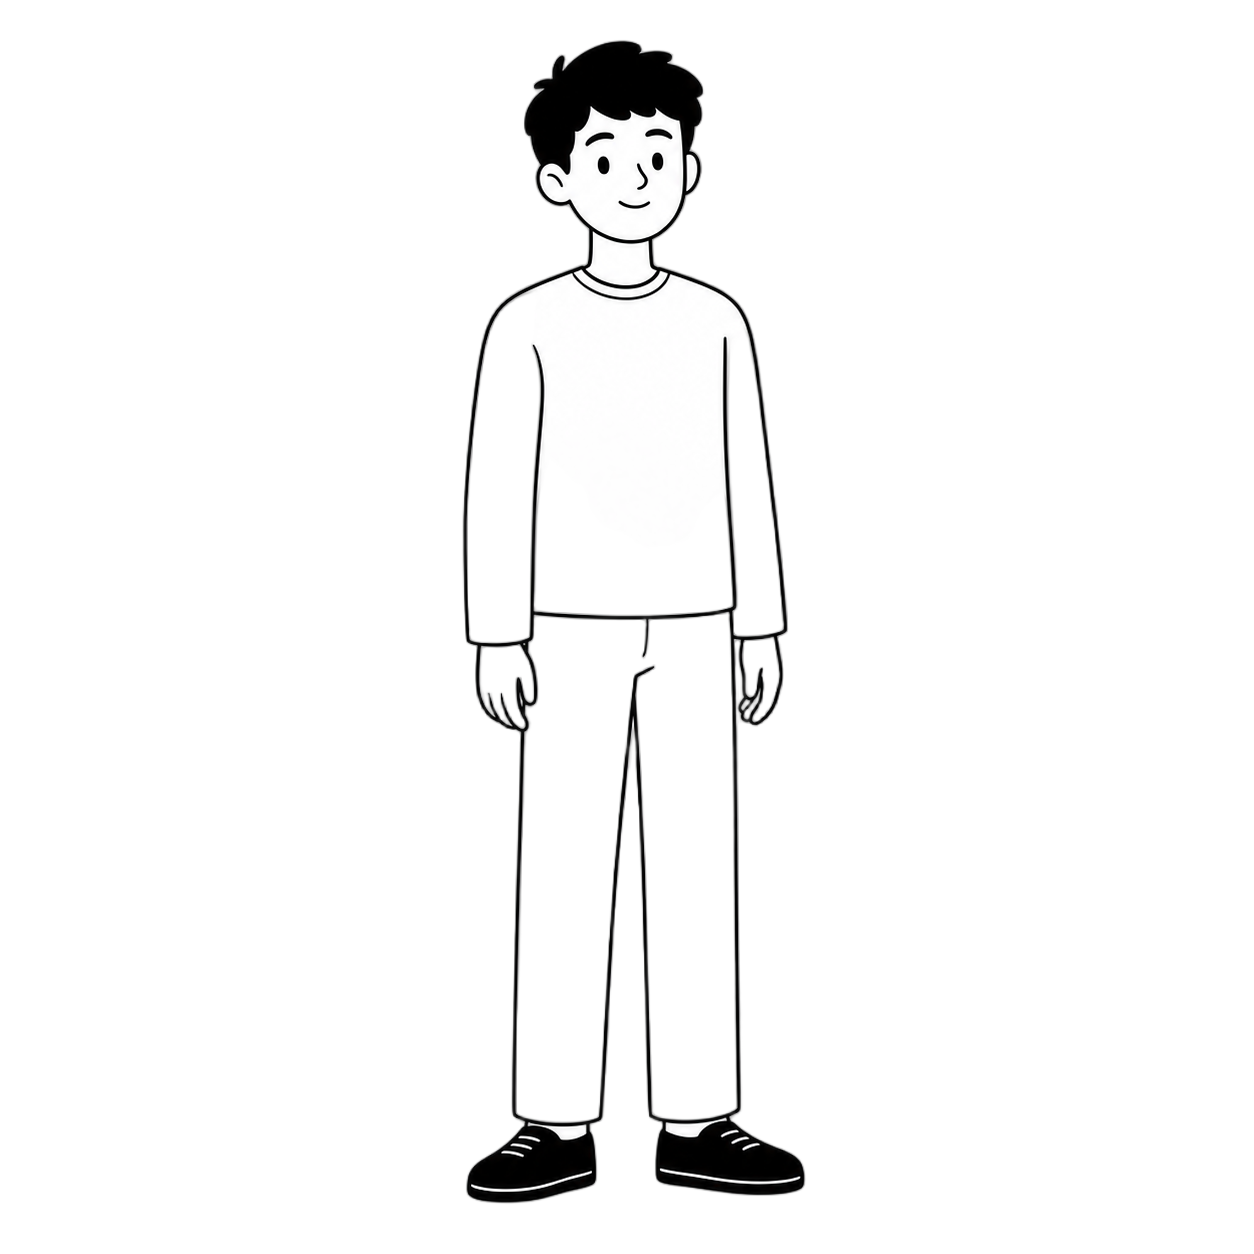
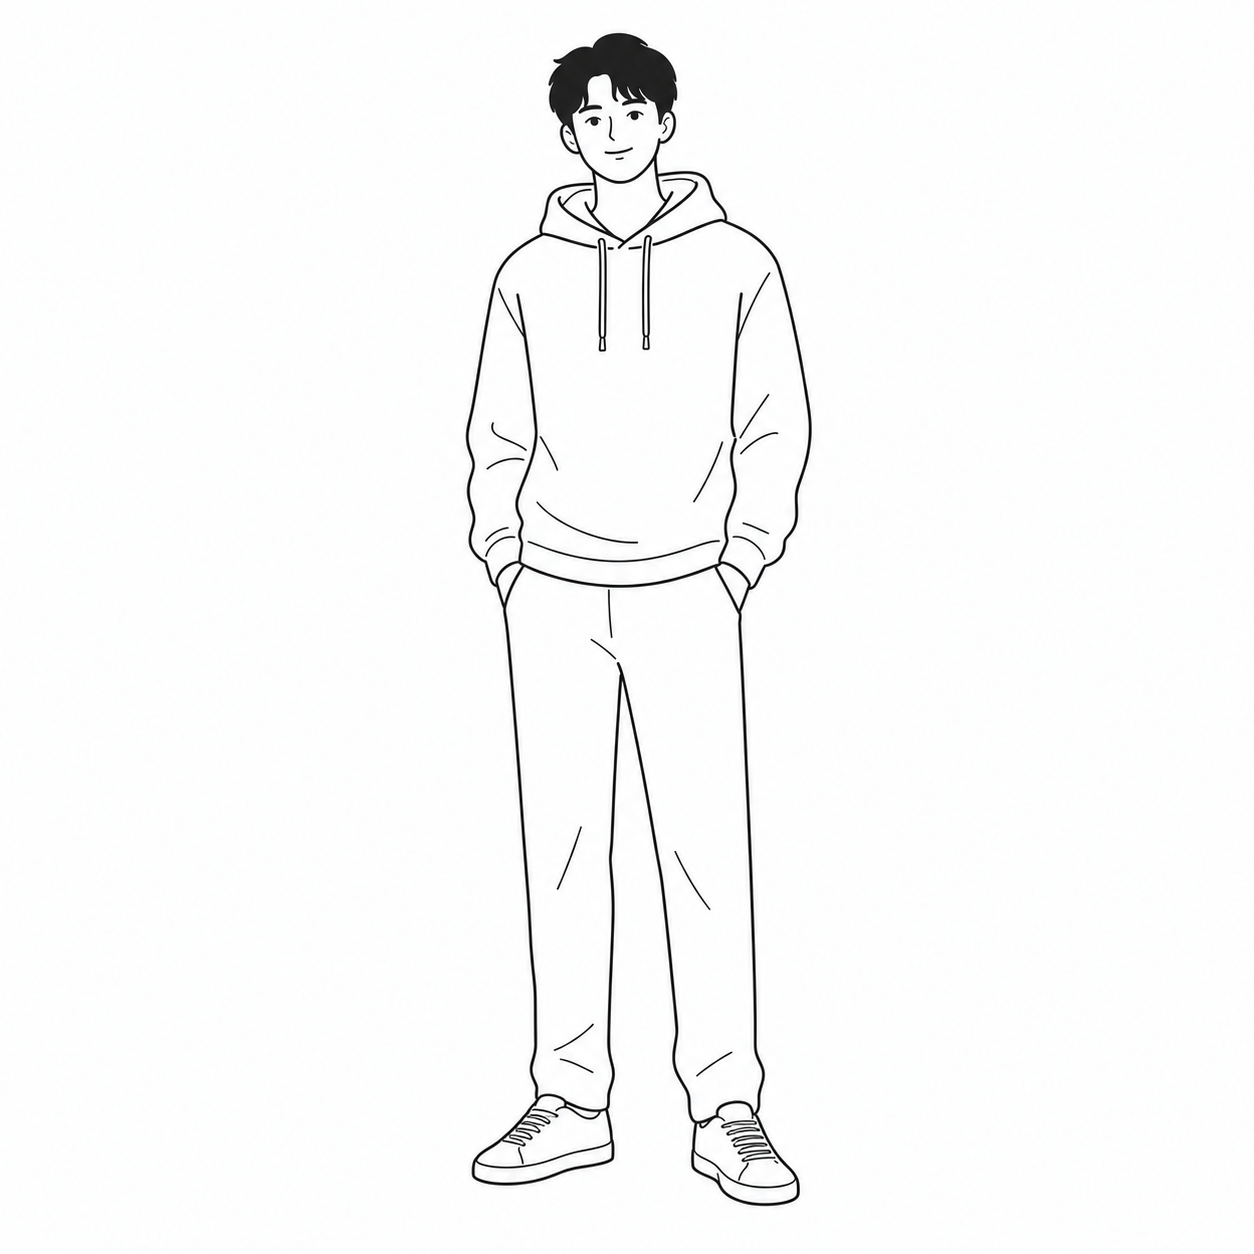
feat: 本地化错误页面文案并更新角色插画生成风格
- 本地化 custom-error 组件按钮文案与 404 页面副标题、描述为中文
- 调整 generate-notion-style 脚本的角色插画提示词，从高对比撞色风格改为极简单线矢量风格，并提取人物设定为独立变量
- 简化任务轮询日志输出，移除冗余的进度字段
- 重新生成 notion-male 角色参考图
- 修复 404.vue 末尾缺失换行符

Changed region(s): [[0.3421, 0.0311, 0.6531, 0.9641], [0.622, 0.4665, 0.6531, 0.4976]]

diff --git a/src/views/errors/404.vue b/src/views/errors/404.vue
@@ -6,8 +6,8 @@ import Error from '@/components/custom-error.vue';
   <div class="flex items-center justify-center h-screen">
     <Error
       :code="404"
-      subtitle="Page Not Found"
-      error="The page you are looking for might have been removed, had its name changed, or is temporarily unavailable."
+      subtitle="页面未找到"
+      error="您访问的页面可能已被移除、更名或暂时无法访问。"
     />
   </div>
 </template>

diff --git a/src/components/custom-error.vue b/src/components/custom-error.vue
@@ -22,10 +22,10 @@ defineProps<{
       <slot>
         <div class="flex justify-center gap-2">
           <Button variant="outline" @click="$router.back()">
-            Go Back
+            返回上一页
           </Button>
           <Button @click="$router.push('/')">
-            Back to Home
+            返回首页
           </Button>
         </div>
       </slot>
